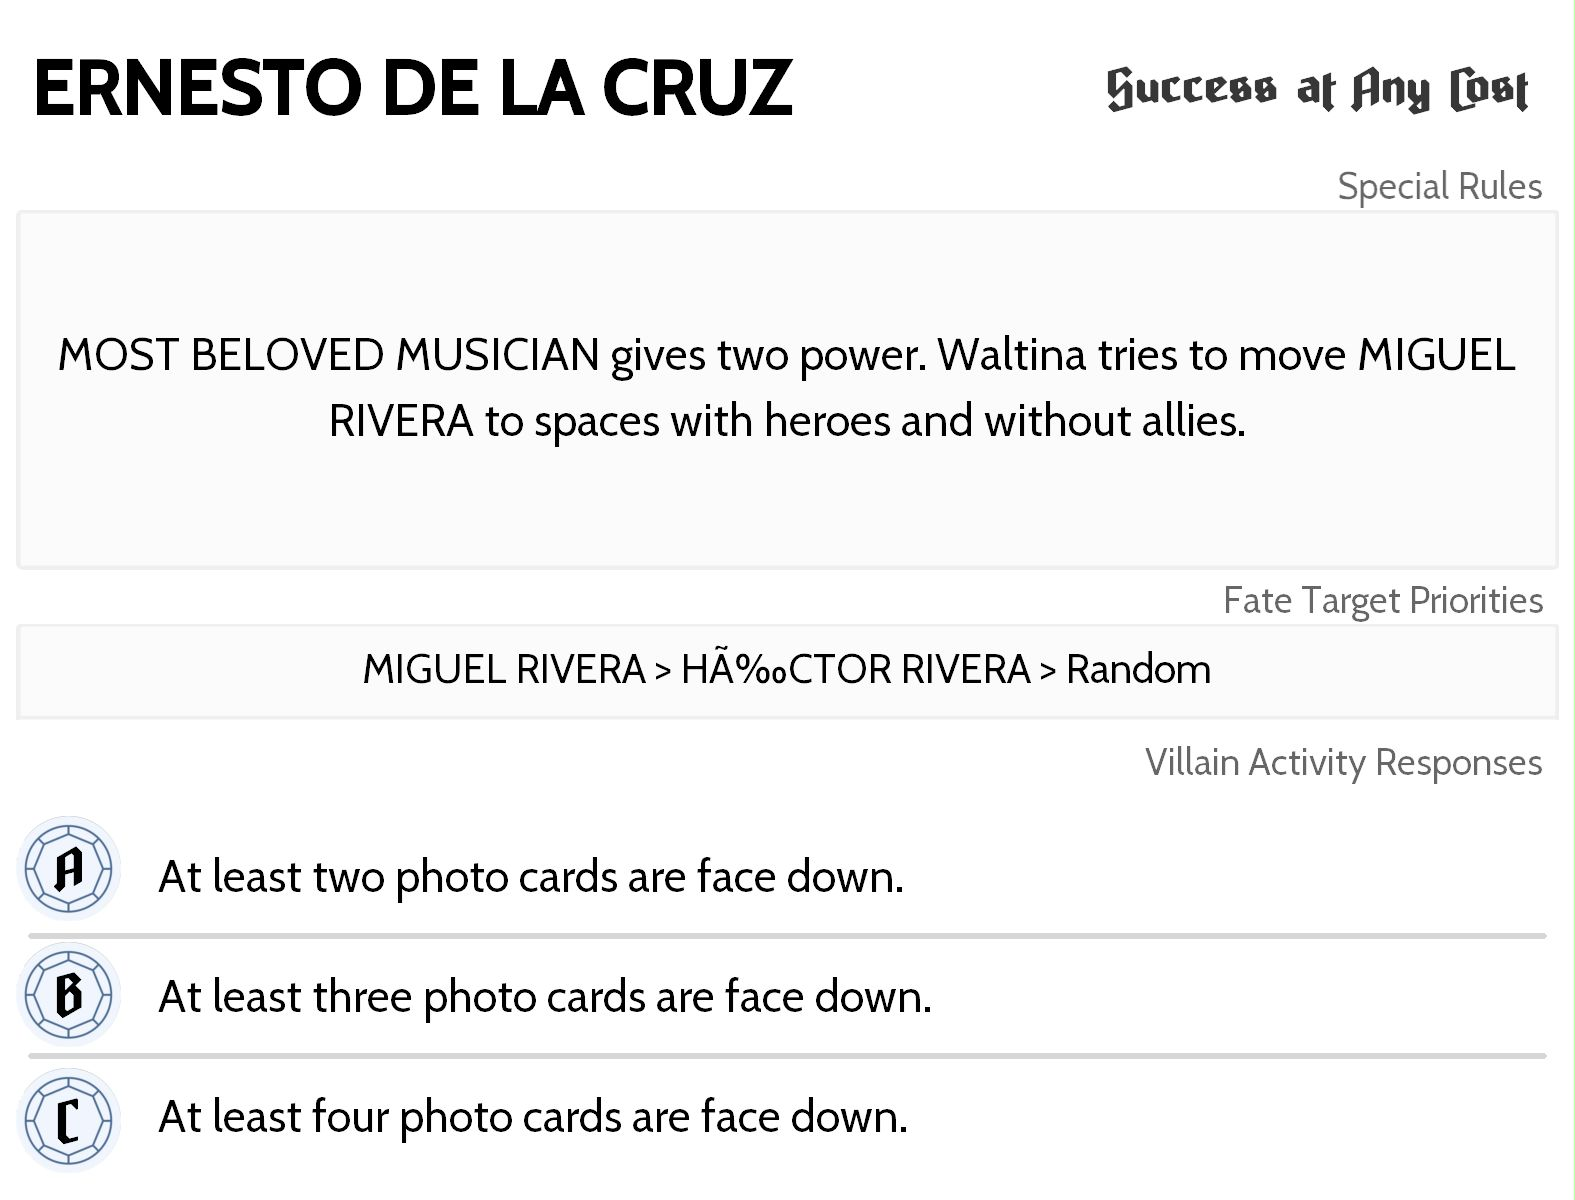
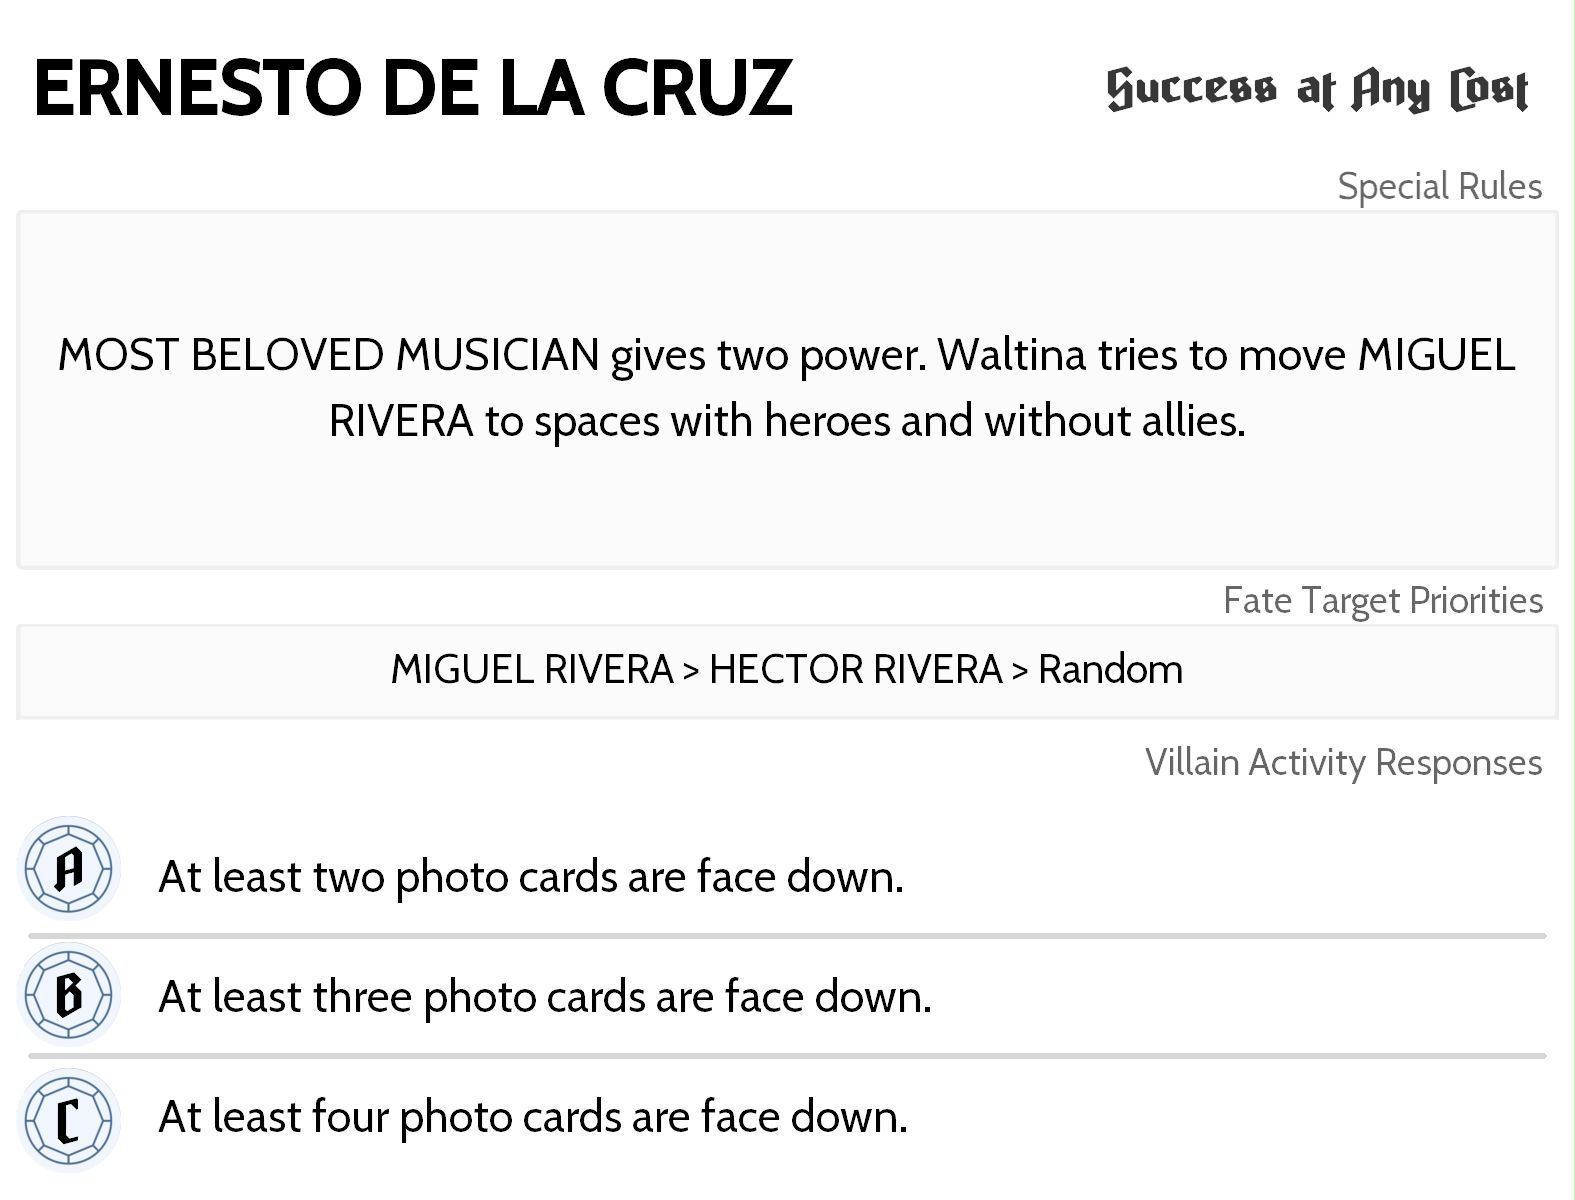
Fix accent mark breaking the brain

Changed region(s): [[0.2178, 0.5242, 0.7467, 0.5858]]

diff --git a/docs/js/villains.js b/docs/js/villains.js
@@ -5,7 +5,7 @@ window.villains_list = {
 		{name: "Cruella de Vil", box: "Perfectly Wretched", special: "Heroes are moved to the leftmost location that has the most puppies. Allies are moved to the location with the least puppies.", preference: "Largest puppy token > PONGO > PERDITA > Random", fate1: "Capture at least thirty-three puppies.", fate2: "Capture at least sixty-six puppies.", fate3: "Capture at least ninety-nine puppies.", brainId: "villains_13.jpg"},
 		{name: "Davy Jones", box: "Treacherous Tides", special: "Waltina tries to play JACK SPARROW to THE FLYING DUTCHMAN. Waltina prioritizes protecting face up treasures, followed by face down treasures, and finally weakest heroes.", preference: "Weakest Ally > Random", fate1: "At least two treasures are collected.", fate2: "At least three treasures are collected.", fate3: "At least four treasures are collected.", brainId: "villains_29.jpg"},
 		{name: "Dr. Facilier", box: "Wicked to the Core", special: "When RAY is played, Waltina takes another Automa Brain Fate Action. Waltina prioritizes allies and items for the fortune pile.", preference: "MASKED SPIRITS > Random", fate1: "TALISMAN is played.", fate2: "RULE NEW ORLEANS is played.", fate3: "CANE is played or in your hand.", brainId: "villains_7.jpg"},
-		{name: "Ernesto de la Cruz", box: "Success at Any Cost", special: "MOST BELOVED MUSICIAN gives two power. Waltina tries to move MIGUEL RIVERA to spaces with heroes and without allies.", preference: "MIGUEL RIVERA > HÉCTOR RIVERA > Random", fate1: "At least two photo cards are face down.", fate2: "At least three photo cards are face down.", fate3: "At least four photo cards are face down.", brainId: "villains_31.jpg"},
+		{name: "Ernesto de la Cruz", box: "Success at Any Cost", special: "MOST BELOVED MUSICIAN gives two power. Waltina tries to move MIGUEL RIVERA to spaces with heroes and without allies.", preference: "MIGUEL RIVERA > HECTOR RIVERA > Random", fate1: "At least two photo cards are face down.", fate2: "At least three photo cards are face down.", fate3: "At least four photo cards are face down.", brainId: "villains_31.jpg"},
 		{name: "Evil Queen (DB)", box: "Darkness Brewing", special: "During setup, redraw your starting hand until you have at most two ingredients. If Waltina reveals SNOW WHITE, then you must pay six power or discard her and draw again. When SLEEPY is played, Waltina takes another Automa Brain Fate Action.", preference: "DOC > Random", fate1: "At least two ingredients are in your realm.", fate2: "SNOW WHITE is played.", fate3: "DWARF'S COTTAGE is unlocked.", brainId: "villains_34.jpg"},
 		{name: "Evil Queen (WttC)", box: "Wicked to the Core", special: "During setup, redraw your starting hand until you have at most two ingredients. If Waltina reveals SNOW WHITE, then you must pay six power or discard her and draw again. When SLEEPY is played, Waltina takes another Automa Brain Fate Action.", preference: "DOC > Random", fate1: "At least two ingredients are in your realm.", fate2: "SNOW WHITE is played.", fate3: "DWARF'S COTTAGE is unlocked.", brainId: "villains_8.jpg"},
 		{name: "Gaston", box: "Despicable Plots", special: "THE ROSE causes two additional Automa Brain Fate Actions. Waltina replaces obstacles in in the leftmost location with the fewest obstacles.", preference: "BELLE > MAURICE'S INVENTION > BEAST > Random", fate1: "At least the first obstacle is removed.", fate2: "At least the third obstacle is removed.", fate3: "At least the fifth obstacle is removed.", brainId: "villains_16.jpg"},
